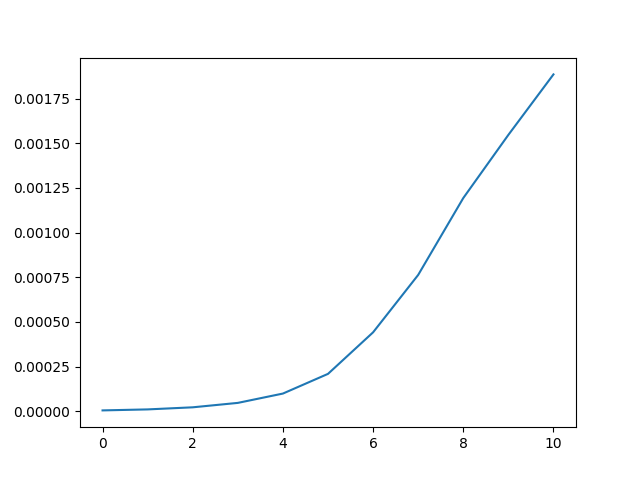
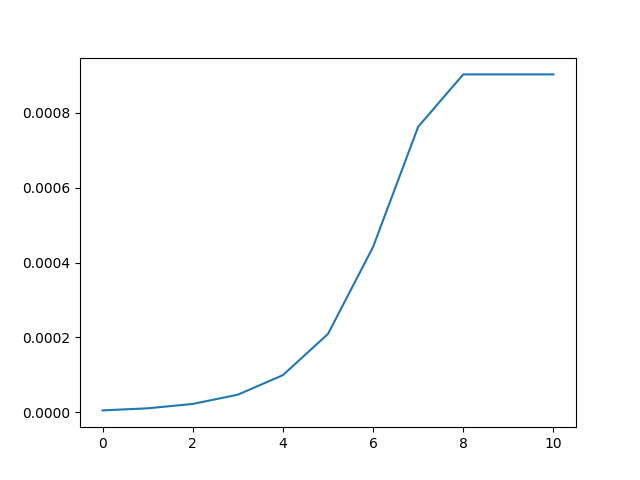
Set metabolites to 0 when they disappear

diff --git a/vivarium_comets/processes/comets.py b/vivarium_comets/processes/comets.py
@@ -123,7 +123,16 @@ class Comets(Process):
 
         media = experiment.media.copy()
         print(media)
+        previous_media = media.loc[media['cycle'] == media['cycle'].max()-1]
         most_recent_media = media.loc[media['cycle'] == media['cycle'].max()]
+        # If a metabolite is not in the most recent media, but was in the previous media, set it to 0
+        # This is a kludge to deal with the fact that COMETS doesn't report metabolites that are not present
+        if len(most_recent_media) < len(previous_media): # FIXME: This won't always work if you have added and removed metabolites in the same timestep
+            # Get the metabolites that are in the previous media but not the most recent media
+            missing_metabolites = set(previous_media['metabolite']) - set(most_recent_media['metabolite'])
+            # Add rows for the missing metabolites
+            for met_id in missing_metabolites:
+                most_recent_media = most_recent_media.append({'metabolite': met_id, 'conc_mmol': 0}, ignore_index=True) #TODO: Need to make space explicit
         next_metabolite = most_recent_media.set_index('metabolite').to_dict()['conc_mmol']
         print(next_metabolite)
         
